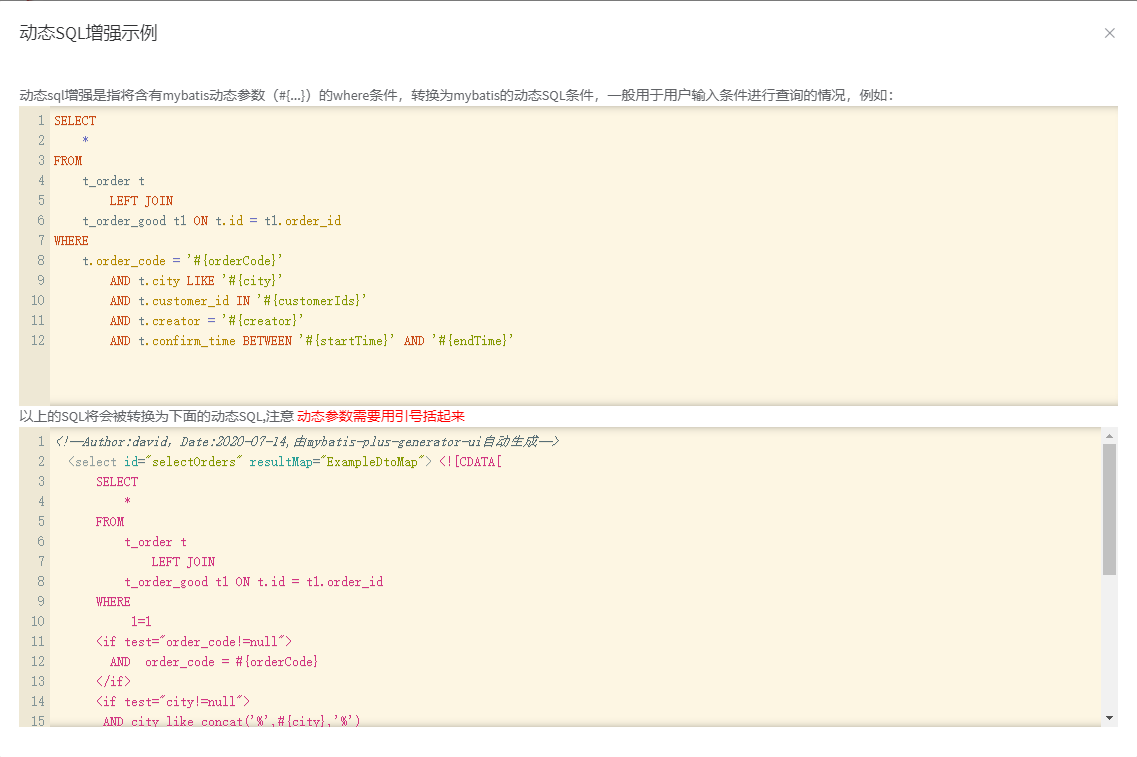
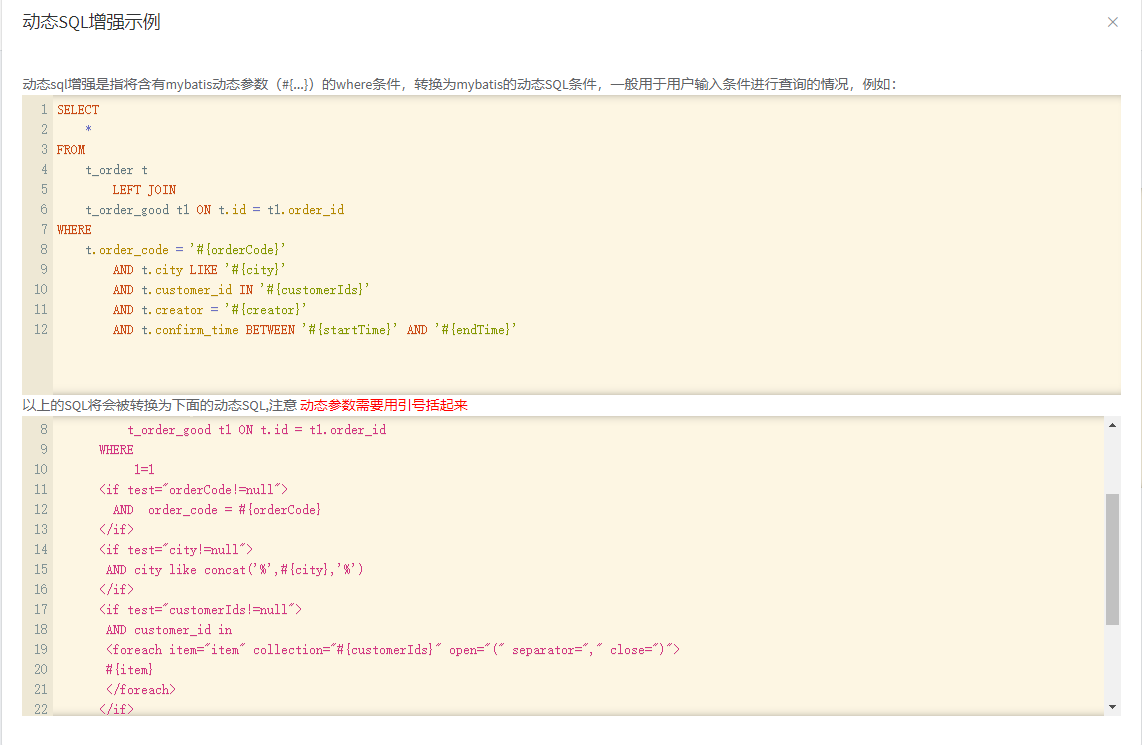
更新部分示例文字

diff --git a/src/frontend/src/components/DynamicSqlDemo.vue b/src/frontend/src/components/DynamicSqlDemo.vue
@@ -14,7 +14,7 @@ import { codemirror } from "vue-codemirror";
 import "codemirror/mode/xml/xml.js";
 export default {
   components: {
-    codemirror
+    codemirror,
   },
   data() {
     return {
@@ -25,7 +25,7 @@ export default {
         lineNumbers: true,
         line: true,
         mode: "text/x-mysql",
-        theme: "solarized light"
+        theme: "solarized light",
       },
       xmlOptions: {
         readOnly: true,
@@ -34,13 +34,13 @@ export default {
         lineNumbers: true,
         line: true,
         mode: "application/xml",
-        theme: "solarized light"
+        theme: "solarized light",
       },
       sqlCode: "",
-      xmlCode: ""
+      xmlCode: "",
     };
   },
-  mounted: function() {
+  mounted: function () {
     this.sqlCode =
       "SELECT \n" +
       "    *\n" +
@@ -65,13 +65,13 @@ export default {
       "          t_order_good t1 ON t.id = t1.order_id\n" +
       "      WHERE\n" +
       "           1=1 \n" +
-      '      <if test="order_code!=null">\n' +
+      '      <if test="orderCode!=null">\n' +
       "        AND  order_code = #{orderCode}\n" +
       "      </if>\n" +
       '      <if test="city!=null">\n' +
       "       AND city like concat('%',#{city},'%')\n" +
       "      </if>\n" +
-      '      <if test="customer_id!=null">\n' +
+      '      <if test="customerIds!=null">\n' +
       "       AND customer_id in \n" +
       '       <foreach item="item" collection="#{customerIds}" open="(" separator="," close=")">\n' +
       "       #{item}\n" +
@@ -80,12 +80,12 @@ export default {
       '      <if test="creator!=null">\n' +
       "       AND creator = #{creator}\n" +
       "      </if>\n" +
-      '      <if test="confirm_time!=null">\n' +
+      '      <if test="startTime!=null">\n' +
       "       AND confirm_time between #{startTime} and #{endTime}\n" +
       "      </if>\n" +
       "    ]]>\n" +
       "  </select>";
   },
-  methods: {}
+  methods: {},
 };
 </script>
